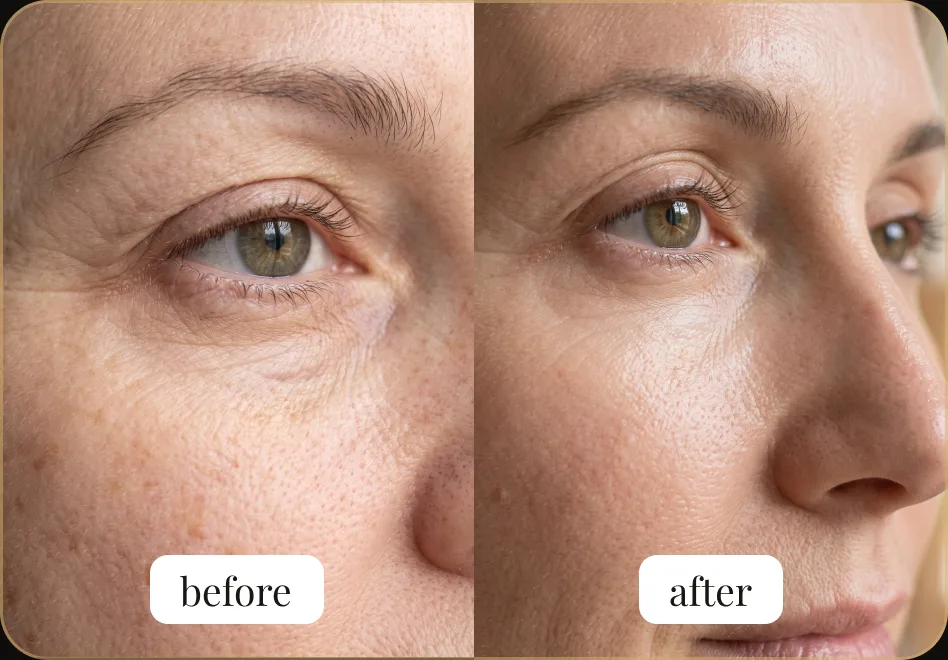
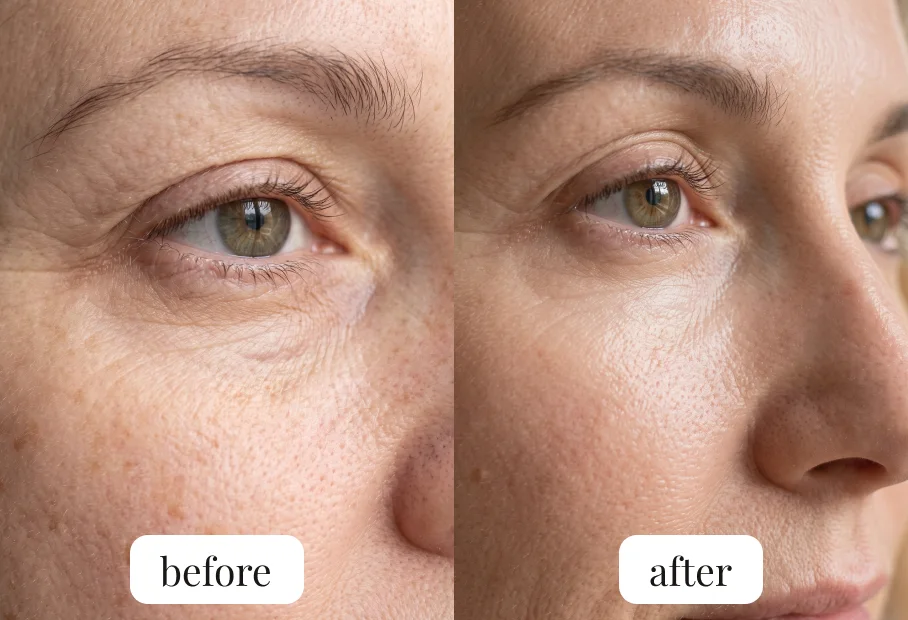
Exosome: C becomes Bordeaux Gold luxury; before/after images without dark corners

diff --git a/exosome/c/style.css b/exosome/c/style.css
@@ -1,15 +1,15 @@
-/* LifeCell Exosomes pre-sale · C · Rose Lab · generated by exosome-src/build.py, edit that, not this. */
+/* LifeCell Exosomes pre-sale · C · Bordeaux Gold · generated by exosome-src/build.py, edit that, not this. */
 .lc-page, html {
-  --bg:#FBF7F5; --surface:#FFFFFF; --surface-2:#FFFFFF;
-  --alt-bg:#F4E6E3; --alt-surface:#FFFAF9; --alt-ink:#2B1A26; --alt-muted:#6E5A66; --alt-line:#E6CFCB;
-  --ink:#2B1A26; --muted:#6E5A66; --gold:#A8566A; --gold-2:#B9677A; --gold-ink:#8E4357;
-  --line:rgba(140,80,96,.20);
-  --cta-bg:#3A2033; --cta-ink:#FFF6F4; --cta-shadow:0 10px 24px rgba(58,32,51,.22);
-  --sticky-bg:rgba(255,255,255,.97);
+  --bg:#FAF5EE; --surface:#FFFDF9; --surface-2:#FFFFFF;
+  --alt-bg:#F2E7D8; --alt-surface:#FFFBF5; --alt-ink:#2A1418; --alt-muted:#6B5650; --alt-line:#E2D0B6;
+  --ink:#2A1418; --muted:#6B5650; --gold:#A8823F; --gold-2:#B08A4C; --gold-ink:#8C6A2F;
+  --line:rgba(140,106,47,.24);
+  --cta-bg:linear-gradient(180deg,#6E1D2C 0%,#4E111D 100%); --cta-ink:#F6E7C8; --cta-shadow:0 10px 24px rgba(78,17,29,.28);
+  --sticky-bg:rgba(255,253,249,.97);
   --font-h:'Fraunces',Georgia,serif; --font-s:'Fraunces',Georgia,serif; --font-q:'Fraunces',Georgia,serif; --font-b:'Manrope',system-ui,sans-serif;
   --h-weight:400; --h1-size:64px; --h2-size:44px; --h-track:-.01em;
   --badge-filter:none; --badge-blend:multiply;
-  --hero-bg:radial-gradient(90% 55% at 50% 0,#F7E3DF 0,transparent 75%);
+  --hero-bg:radial-gradient(90% 55% at 50% 0,#F3E3C8 0,transparent 75%);
 }
 
 /* ---------- page ---------- */
@@ -176,39 +176,40 @@ p, li, td, th { text-wrap: pretty; }
   transition: transform .5s cubic-bezier(.22,1,.36,1), opacity .35s ease, visibility 0s .5s; }
 @media (prefers-reduced-motion: reduce) { .cta-footer { transition: none !important; } }
 
-/* C · Rose Lab: pearl white, dusty rose, deep plum. Modern editorial. */
+/* C · Bordeaux Gold: champagne cream, deep bordeaux, gold. Modern editorial luxury. */
 .hero h1 em, .script { font-family: 'Fraunces', Georgia, serif; font-style: italic; font-weight: 400; letter-spacing: -.01em; }
 .hero h1 em { font-size: calc(var(--h1-size) * 1.02); line-height: 1.02; color: var(--gold); }
-.script { font-size: 34px; }
+.script { font-size: 34px; color: #6E1D2C; }
 .section-title { letter-spacing: -.015em; }
-.section-title .l2 { font-style: italic; }
-.eyebrow { letter-spacing: .18em; font-weight: 800; font-size: 15px; }
-.proof .stars { color: #C27B8B; }
-.stars { color: #C27B8B; }
-/* pill CTA, solid plum */
-.cta { border-radius: 999px; font-weight: 700; letter-spacing: .06em; font-size: 21px; }
-.cta .arrow { background: rgba(255,255,255,.16); }
-/* arched hero image on a blush disc */
-.hero-media { margin: 52px 56px 0; border-radius: 260px 260px 28px 28px; background: #F1DAD5; }
+.section-title .l2 { font-style: italic; color: var(--gold); }
+.eyebrow { letter-spacing: .18em; font-weight: 800; font-size: 15px; color: #6E1D2C; }
+.alt .eyebrow { color: #6E1D2C; }
+.stars, .proof .stars { color: #B8914F; }
+/* pill CTA, bordeaux with champagne text and a thin gold edge */
+.cta { border-radius: 999px; font-weight: 700; letter-spacing: .06em; font-size: 21px; border: 1px solid rgba(214,180,120,.55); }
+.cta .arrow { background: linear-gradient(180deg,#E6C88F,#B8914F); color: #4E111D; }
+/* arched hero image on a bordeaux arch with gold hairline */
+.hero-media { margin: 48px 56px 0; border-radius: 260px 260px 28px 28px; background: #4E111D; box-shadow: 0 0 0 1.5px #C9A465, 0 24px 50px rgba(78,17,29,.25); }
 .hero-media img { aspect-ratio: 4 / 5; object-position: 50% 45%; }
-/* facts as soft pills */
+/* facts as soft champagne pills */
 .fact-list { border-bottom: 0; padding-bottom: 8px; gap: 10px; }
-.fact-list li { padding: 10px 18px; border: 0; border-radius: 999px; background: #F4E6E3; font-size: 17px; }
-.fact-list li + li { border-left: 0; }
-/* numbers in rose italic */
+.fact-list li { padding: 10px 18px; border: 1px solid #E2D0B6; border-radius: 999px; background: #FFFBF5; font-size: 17px; }
+.fact-list li + li { border-left: 1px solid #E2D0B6; }
+.fact-list svg { color: #6E1D2C; }
+.checks svg, .reassure svg { color: #6E1D2C; }
 .why-list .n, .steps .num { font-family: 'Fraunces', serif; font-style: italic; color: var(--gold); }
 .steps img, .why-img, .sci-img, .rv-img, .offer-img, .ba-list img { border-radius: 28px; }
-.ingr-list li { display: grid; grid-template-columns: 72px 1fr; gap: 20px; align-items: start; padding: 24px 0; border-bottom: 1px solid var(--line); }
-.ingr-list li:first-child { border-top: 1px solid var(--line); }
-.ingr-list .txt p { color: var(--muted); font-size: 19px; line-height: 30px; margin-top: 6px; }
-.ingr-list .thumb img { border-radius: 50%; }
+.ingr-list .thumb img { border-radius: 50%; box-shadow: 0 0 0 1.5px #D8BC88; }
 .ingr-list b { font-size: 25px; }
-/* vs table: plum column */
-.vs .us { background: #3A2033; color: #FFF6F4; }
-.vs thead .us { color: #FFF6F4; }
+/* vs table: bordeaux column */
+.vs .us { background: linear-gradient(180deg,#6E1D2C,#4E111D); color: #F6E7C8; }
+.vs thead .us { color: #F6E7C8; }
 .vs { border-radius: 24px; }
 .rv-list blockquote p { font-size: 26px; line-height: 1.45; }
-.answer { border-left-color: #C27B8B; }
-.offer { background: linear-gradient(180deg, var(--bg), #F4E6E3); }
+.answer { border-left-color: #6E1D2C; }
+.offer { background: linear-gradient(180deg, var(--bg), #F2E7D8); }
+.offer-img { box-shadow: 0 0 0 1.5px #C9A465; }
 .pname .prod { font-style: italic; }
-.footer-links a { color: var(--gold-ink); }
+.pname .brand { color: #6E1D2C; }
+.footer-links a { color: #6E1D2C; }
+.cta-footer img { box-shadow: 0 0 0 1px #C9A465; }

diff --git a/exosome/c/index.html b/exosome/c/index.html
@@ -7,12 +7,12 @@
 <meta name="description" content="LifeCell Exosomes Collagen Builder pairs plant-derived exosomes with clinically backed growth factors that help skin repair itself every night.">
 <meta name="HandheldFriendly" content="True">
 <meta name="MobileOptimized" content="600">
-<title>LifeCell Exosomes Collagen Builder · C · Rose Lab</title>
+<title>LifeCell Exosomes Collagen Builder · C · Bordeaux Gold</title>
 <script>(function(r){r.classList.add("lc-sticky-pending");setTimeout(function(){if(!r.classList.contains("lc-sticky-ready"))r.classList.remove("lc-sticky-pending")},4000)})(document.documentElement)</script>
 <link rel="preconnect" href="https://fonts.googleapis.com"><link rel="preconnect" href="https://fonts.gstatic.com" crossorigin>
 <link rel="preload" as="image" href="../assets/hero.webp" type="image/webp" fetchpriority="high">
 <link rel="stylesheet" href="https://fonts.googleapis.com/css2?family=Fraunces:ital,opsz,wght@0,9..144,400;0,9..144,500;1,9..144,400;1,9..144,500&family=Manrope:wght@400;500;600;700;800&display=swap">
-<link rel="stylesheet" href="style.css?v=202611252021">
+<link rel="stylesheet" href="style.css?v=202611252027">
 </head>
 <body>
 <div class="lc-page" data-design="c">
@@ -46,7 +46,7 @@
 <section class="ba alt" id="results">
   <div class="container center">
     <p class="eyebrow">Visible results</p><h2 class="section-title"><span class="l1">Firmer, smoother,</span> <span class="l2">calmer-looking skin</span></h2>
-    <ul class="ba-list"><li><picture><source srcset="../assets/ba1.webp" type="image/webp"><img src="../assets/ba1.jpg" alt="Before and after: Eye Area" width="948" height="660" loading="lazy" decoding="async"></picture><h3>EYE AREA</h3><p>Under-eye · fine lines &amp; dark circles</p></li><li><picture><source srcset="../assets/ba2.webp" type="image/webp"><img src="../assets/ba2.jpg" alt="Before and after: Mouth &amp; Smile Lines" width="948" height="660" loading="lazy" decoding="async"></picture><h3>MOUTH &amp; SMILE LINES</h3><p>Nasolabial folds · lip lines</p></li><li><picture><source srcset="../assets/ba3.webp" type="image/webp"><img src="../assets/ba3.jpg" alt="Before and after: Crow’S Feet" width="948" height="660" loading="lazy" decoding="async"></picture><h3>CROW’S FEET</h3><p>Outer eye · expression lines</p></li></ul>
+    <ul class="ba-list"><li><picture><source srcset="../assets/ba1.webp" type="image/webp"><img src="../assets/ba1.jpg" alt="Before and after: Eye Area" width="908" height="620" loading="lazy" decoding="async"></picture><h3>EYE AREA</h3><p>Under-eye · fine lines &amp; dark circles</p></li><li><picture><source srcset="../assets/ba2.webp" type="image/webp"><img src="../assets/ba2.jpg" alt="Before and after: Mouth &amp; Smile Lines" width="908" height="620" loading="lazy" decoding="async"></picture><h3>MOUTH &amp; SMILE LINES</h3><p>Nasolabial folds · lip lines</p></li><li><picture><source srcset="../assets/ba3.webp" type="image/webp"><img src="../assets/ba3.jpg" alt="Before and after: Crow’S Feet" width="908" height="620" loading="lazy" decoding="async"></picture><h3>CROW’S FEET</h3><p>Outer eye · expression lines</p></li></ul>
     <p class="tiny">Individual results may vary.</p>
   </div>
 </section>

diff --git a/exosome/a/index.html b/exosome/a/index.html
@@ -11,7 +11,7 @@
 <link rel="preconnect" href="https://fonts.googleapis.com"><link rel="preconnect" href="https://fonts.gstatic.com" crossorigin>
 <link rel="preload" as="image" href="../assets/hero.webp" type="image/webp" fetchpriority="high">
 <link rel="stylesheet" href="https://fonts.googleapis.com/css2?family=Cinzel:wght@400;500&family=Fraunces:ital,opsz,wght@1,9..144,400;1,9..144,500&family=Playfair+Display:ital@1&family=Archivo:wght@400;500;700&display=swap">
-<link rel="stylesheet" href="style.css?v=202611252024">
+<link rel="stylesheet" href="style.css?v=202611252027">
 <svg width="0" height="0" style="position:absolute" aria-hidden="true">
   <defs>
     <symbol id="i-up" viewBox="0 0 24 24" fill="none" stroke="currentColor" stroke-width="1.5" stroke-linecap="round" stroke-linejoin="round"><path d="M12 16V5M7 10l5-5 5 5M5 20h14"/></symbol>
@@ -184,9 +184,9 @@
   <div class="rule"></div>
   <p class="lead">Firmer, smoother, calmer-looking skin with nightly use of LifeCell Exosomes Collagen Builder.</p>
   <div class="pairs">
-    <div class="pair"><div class="pic"><picture><source srcset="../assets/ba1.webp" type="image/webp"><img src="../assets/ba1.jpg" alt="Eye area before and after" width="948" height="660" loading="lazy"></picture></div><h3>EYE AREA</h3><p>Under-eye · fine lines &amp; dark circles</p></div>
-    <div class="pair"><div class="pic"><picture><source srcset="../assets/ba2.webp" type="image/webp"><img src="../assets/ba2.jpg" alt="Mouth and smile lines before and after" width="948" height="660" loading="lazy"></picture></div><h3>MOUTH &amp; SMILE LINES</h3><p>Nasolabial folds · lip lines</p></div>
-    <div class="pair"><div class="pic"><picture><source srcset="../assets/ba3.webp" type="image/webp"><img src="../assets/ba3.jpg" alt="Crow’s feet before and after" width="948" height="660" loading="lazy"></picture></div><h3>CROW’S FEET</h3><p>Outer eye · expression lines</p></div>
+    <div class="pair"><div class="pic"><picture><source srcset="../assets/ba1.webp" type="image/webp"><img src="../assets/ba1.jpg" alt="Eye area before and after" width="908" height="620" loading="lazy"></picture></div><h3>EYE AREA</h3><p>Under-eye · fine lines &amp; dark circles</p></div>
+    <div class="pair"><div class="pic"><picture><source srcset="../assets/ba2.webp" type="image/webp"><img src="../assets/ba2.jpg" alt="Mouth and smile lines before and after" width="908" height="620" loading="lazy"></picture></div><h3>MOUTH &amp; SMILE LINES</h3><p>Nasolabial folds · lip lines</p></div>
+    <div class="pair"><div class="pic"><picture><source srcset="../assets/ba3.webp" type="image/webp"><img src="../assets/ba3.jpg" alt="Crow’s feet before and after" width="908" height="620" loading="lazy"></picture></div><h3>CROW’S FEET</h3><p>Outer eye · expression lines</p></div>
   </div>
   <p class="tiny">Individual results may vary.</p>
 </section>

diff --git a/exosome/b/index.html b/exosome/b/index.html
@@ -12,7 +12,7 @@
 <link rel="preconnect" href="https://fonts.googleapis.com"><link rel="preconnect" href="https://fonts.gstatic.com" crossorigin>
 <link rel="preload" as="image" href="../assets/hero.webp" type="image/webp" fetchpriority="high">
 <link rel="stylesheet" href="https://fonts.googleapis.com/css2?family=Cormorant+Garamond:ital,wght@0,500;0,600;1,500&family=Fraunces:ital,opsz,wght@1,9..144,400&family=Inter:wght@400;500;600;700&display=swap">
-<link rel="stylesheet" href="style.css?v=202611252021">
+<link rel="stylesheet" href="style.css?v=202611252027">
 </head>
 <body>
 <div class="lc-page" data-design="b">
@@ -46,7 +46,7 @@
 <section class="ba alt" id="results">
   <div class="container center">
     <p class="eyebrow">Visible results</p><h2 class="section-title"><span class="l1">Firmer, smoother,</span> <span class="l2">calmer-looking skin</span></h2>
-    <ul class="ba-list"><li><picture><source srcset="../assets/ba1.webp" type="image/webp"><img src="../assets/ba1.jpg" alt="Before and after: Eye Area" width="948" height="660" loading="lazy" decoding="async"></picture><h3>EYE AREA</h3><p>Under-eye · fine lines &amp; dark circles</p></li><li><picture><source srcset="../assets/ba2.webp" type="image/webp"><img src="../assets/ba2.jpg" alt="Before and after: Mouth &amp; Smile Lines" width="948" height="660" loading="lazy" decoding="async"></picture><h3>MOUTH &amp; SMILE LINES</h3><p>Nasolabial folds · lip lines</p></li><li><picture><source srcset="../assets/ba3.webp" type="image/webp"><img src="../assets/ba3.jpg" alt="Before and after: Crow’S Feet" width="948" height="660" loading="lazy" decoding="async"></picture><h3>CROW’S FEET</h3><p>Outer eye · expression lines</p></li></ul>
+    <ul class="ba-list"><li><picture><source srcset="../assets/ba1.webp" type="image/webp"><img src="../assets/ba1.jpg" alt="Before and after: Eye Area" width="908" height="620" loading="lazy" decoding="async"></picture><h3>EYE AREA</h3><p>Under-eye · fine lines &amp; dark circles</p></li><li><picture><source srcset="../assets/ba2.webp" type="image/webp"><img src="../assets/ba2.jpg" alt="Before and after: Mouth &amp; Smile Lines" width="908" height="620" loading="lazy" decoding="async"></picture><h3>MOUTH &amp; SMILE LINES</h3><p>Nasolabial folds · lip lines</p></li><li><picture><source srcset="../assets/ba3.webp" type="image/webp"><img src="../assets/ba3.jpg" alt="Before and after: Crow’S Feet" width="908" height="620" loading="lazy" decoding="async"></picture><h3>CROW’S FEET</h3><p>Outer eye · expression lines</p></li></ul>
     <p class="tiny">Individual results may vary.</p>
   </div>
 </section>

diff --git a/exosome/index.html b/exosome/index.html
@@ -56,7 +56,7 @@
 const DESIGNS = [
   { id: 'a', name: 'A · Black Gold', desc: 'from Figma Exosome › Blog' },
   { id: 'b', name: 'B · Ivory Gold', desc: 'light gold luxury' },
-  { id: 'c', name: 'C · Rose Lab', desc: 'pearl, rose & plum' },
+  { id: 'c', name: 'C · Bordeaux Gold', desc: 'champagne, bordeaux & gold' },
 ];
 const seg = document.getElementById('seg'), stage = document.getElementById('stage');
 const small = () => window.matchMedia('(max-width: 700px)').matches;
